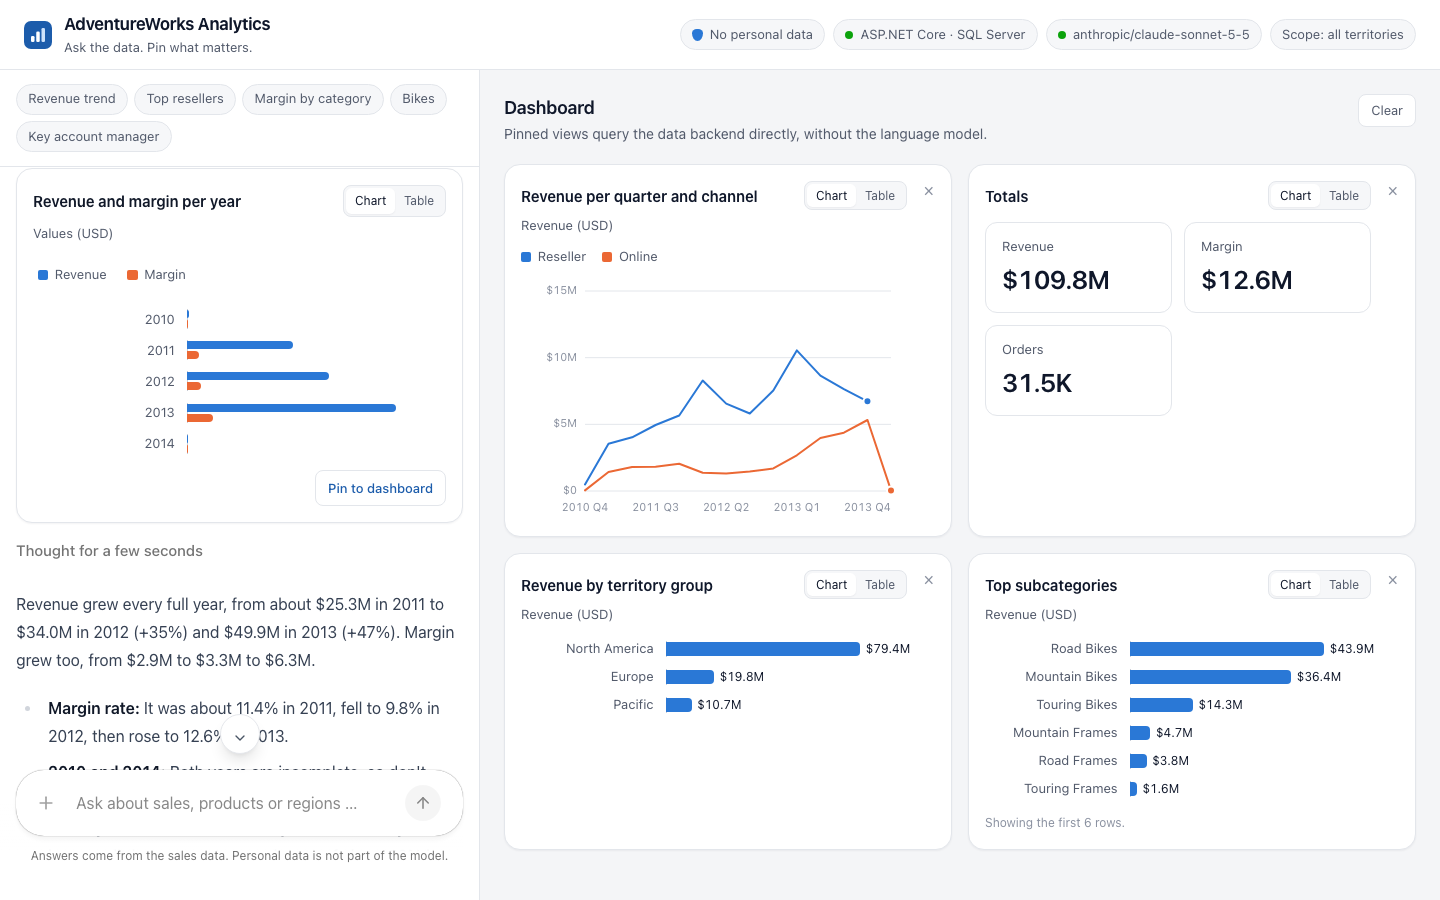
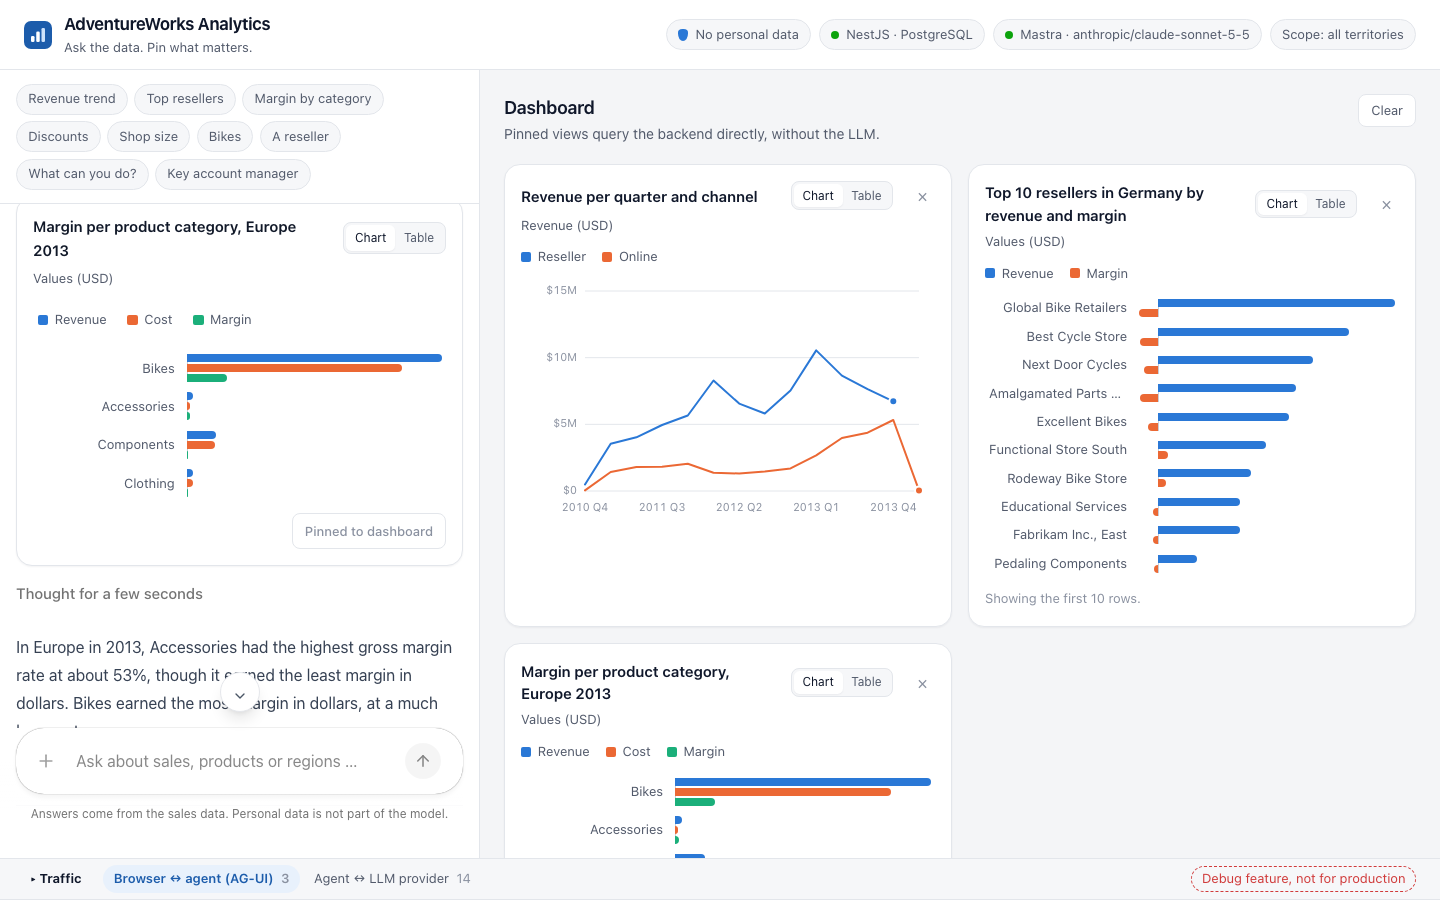
Demo-Feinschliff: Katalog nur mit aktuellem Produktstand, Größenklassen mit Tausendertrennung, eindeutige Shop-Size-Frage, index.html ohne Cache, README aktualisiert (Artikelserie, Beispielfragen, .NET ohne Docker, DATA_SCOPE)

diff --git a/frontend/src/app/chat/chat-panel.ts b/frontend/src/app/chat/chat-panel.ts
@@ -12,7 +12,7 @@ const EXAMPLES: Example[] = [
   { label: 'Top resellers', prompt: 'Which 10 resellers in Germany bought the most? Show revenue and margin.' },
   { label: 'Margin by category', prompt: 'Compare the gross margin of the product categories in Europe in 2013.' },
   { label: 'Discounts', prompt: 'How much discount did each promotion type grant, and how much revenue came with it?' },
-  { label: 'Shop size', prompt: 'Do larger resellers place bigger orders? Show the average order value per reseller annual revenue.' },
+  { label: 'Shop size', prompt: 'Do larger resellers place bigger orders? Show only the average order value per reseller annual revenue class.' },
   { label: 'Bikes', prompt: 'Show me the Mountain-200 bikes.' },
   { label: 'A reseller', prompt: 'Who is Brakes and Gears, and where are they located?' },
   { label: 'What can you do?', prompt: 'What can you do for me?' },

diff --git a/frontend/src/app/charts/chart-model.ts b/frontend/src/app/charts/chart-model.ts
@@ -55,6 +55,8 @@ export function formatDimension(name: string, value: CellValue): string {
   if (value === null) return '(none)';
   if (name === 'quarter') return `Q${value}`;
   if (name === 'month' && typeof value === 'number') return MONTHS[value - 1] ?? String(value);
+  // Numeric classes such as the reseller's annual revenue read better grouped: 30,000.
+  if (typeof value === 'number' && !TIME_DIMENSIONS.includes(name)) return integer.format(value);
   return String(value);
 }
 

diff --git a/frontend/src/app/charts/chart-model.spec.ts b/frontend/src/app/charts/chart-model.spec.ts
@@ -72,6 +72,8 @@ describe('formatting', () => {
     expect(formatDimension('quarter', 2)).toBe('Q2');
     expect(formatDimension('month', 12)).toBe('Dec');
     expect(formatDimension('reseller', null)).toBe('(none)');
+    expect(formatDimension('resellerAnnualRevenue', 300000)).toBe('300,000');
+    expect(formatDimension('year', 2013)).toBe('2013');
   });
 
   it('writes money in full for tables and compact for axes', () => {

diff --git a/README.md b/README.md
@@ -3,7 +3,13 @@
 Ask a sales database questions in plain language and get charts back, right inside an Angular app.
 Pin the answers you like to a dashboard that keeps working without the LLM.
 
-The demo accompanies the article **[Agentic Analytics with Angular, CopilotKit and Mastra](https://angular.schule/blog/2026-11-agentic-analytics)** on angular.schule.
+The demo accompanies the article series **Agentic Analytics with Angular** on angular.schule:
+
+1. [Architecture, and Keeping Personal Data Out](https://angular.schule/blog/2026-11-agentic-analytics)
+2. The backend, in one of two variants: [Node.js with Mastra](https://angular.schule/blog/2026-11-agentic-analytics-node) or [.NET with the Microsoft Agent Framework](https://angular.schule/blog/2026-11-agentic-analytics-dotnet)
+3. [Generative UI with CopilotKit](https://angular.schule/blog/2026-11-agentic-analytics-angular)
+4. [Compare, Watch and Fine-Tune the Agent](https://angular.schule/blog/2026-11-agentic-analytics-in-practice)
+
 It was inspired by Manfred Steyer's live-coding workshop *Build an Agentic Analytics App with Angular* ([his demo](https://github.com/manfredsteyer/agentic-sales)) and rebuilt with its own data, its own backends and a strong focus on data protection.
 
 ![The app: chat on the left, pinned dashboard on the right](docs/screenshot.png)
@@ -18,6 +24,7 @@ It was inspired by Manfred Steyer's live-coding workshop *Build an Agentic Analy
 - **Data minimisation.** Company names are part of the data, people are not: no sales representatives, key account managers or contact persons. The classic AdventureWorks analysis of bike buyers by age, income and commute distance is left out on purpose, because it is about private persons. The database account of the backends can only read three views that contain no personal data, filtered to a configurable territory.
 - **Two interchangeable backends** with the same HTTP contract and the same AdventureWorks data: ASP.NET Core with Entity Framework Core and SQL Server, or NestJS with Drizzle and PostgreSQL. Each generates its OpenAPI document from its own code and shows it in Swagger UI; contract tests make sure both documents describe the same contract and both backends give identical answers.
 - **Many questions, few tools.** Revenue, cost, margin, units, orders, average order value, discounts and freight, by time, channel, product, colour, product line, territory, reseller, reseller size and promotion; product cards; reseller profiles. New questions need new dimensions or measures in the semantic layer, not new tools.
+- **The agent explains itself.** Example questions above the chat send a prepared question with one click. Asked what it can do, the agent suggests questions that the semantic layer can answer; it knows the semantic layer from its system prompt.
 - **A dashboard without tokens.** A pinned view stores the query, not the numbers. Tiles ask the backend directly.
 - **A traffic window for learning (debug feature).** Below the chat, the app shows every message on both lines: the AG-UI events between browser and agent, and the requests and streamed answers between agent and LLM provider. Nothing is hidden, so you can see exactly what the model gets.
 
@@ -116,12 +123,24 @@ Each part can run on its own, against databases started with Compose:
 docker compose --profile node up postgres
 
 cd backends/node && npm ci && npm run build && \
-  DATABASE_URL=postgres://analytics_reader:<password>@127.0.0.1:5434/adventureworks PORT=8082 npm start
+  DATABASE_URL=postgres://analytics_reader:<password>@127.0.0.1:5434/adventureworks DATA_SCOPE='*' PORT=8082 npm start
 
 cd frontend && npm ci && DATA_API_URL=http://127.0.0.1:8082 npm start   # http://localhost:4200
 ```
 
-The backend reads `MODEL` and the API key from its environment. For the separate agent service instead:
+The ASP.NET Core backend works the same way against SQL Server (the frontend's dev server forwards to port 8081 by default):
+
+```bash
+docker compose --profile dotnet up sqlserver
+
+cd backends/dotnet && \
+  ConnectionStrings__Analytics='Server=127.0.0.1,14330;Database=AdventureWorksDW;User Id=AnalyticsReader;Password=<password>;TrustServerCertificate=True' \
+  DATA_SCOPE='*' ASPNETCORE_URLS=http://127.0.0.1:8081 dotnet run
+
+cd frontend && npm ci && npm start   # http://localhost:4200
+```
+
+Both backends read `MODEL` and the API key from their environment. For the separate agent service instead:
 
 ```bash
 cd agent && npm ci && DATA_API_URL=http://127.0.0.1:8082 npm start
@@ -147,7 +166,7 @@ docker compose -f compose.yaml -f compose.test.yaml --profile dotnet --profile n
 node --test 'contract/*.test.mjs'
 ```
 
-**Browser tests** with Playwright drive the app on http://localhost:8080: chart, pinning by button and by chat, the dashboard after a reload without the model, product cards, the traffic window. They use the installed Google Chrome. Start one backend behind the web server (`--profile node` or `--profile dotnet`; add `--profile agent` and `AGENT_URL=http://agent:4111` for the separate agent service):
+**Browser tests** with Playwright drive the app on http://localhost:8080: the header, chart, pinning by button and by chat, the dashboard after a reload without the model, product cards, a request outside the semantic layer, the traffic window with and without `DEBUG_TRAFFIC`. They use the installed Google Chrome. Start one backend behind the web server (`--profile node` or `--profile dotnet`; add `--profile agent` and `AGENT_URL=http://agent:4111` for the separate agent service):
 
 ```bash
 docker compose -f compose.yaml -f compose.test.yaml --profile node up -d --build
